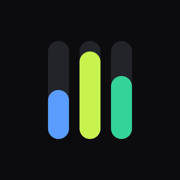
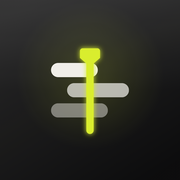
Icono de la app = marca del dashboard (pistas + playhead lima)
Revierte el cambio de marca anterior: el dashboard conserva su símbolo de
pistas de timeline con playhead y ahora icon-180/192/512.png (Dock, iPhone,
favicon y manifest) son ese mismo dibujo.

diff --git a/index.html b/index.html
@@ -10,6 +10,7 @@
 <meta name="apple-mobile-web-app-status-bar-style" content="black-translucent">
 <meta name="apple-mobile-web-app-title" content="Hub de Edición">
 <link rel="apple-touch-icon" href="/icon-180.png">
+<link rel="icon" type="image/png" sizes="192x192" href="/icon-192.png">
 <script>try{const t=localStorage.getItem('scTheme');if(t)document.documentElement.dataset.theme=t}catch(e){}
 // sidebar: el estado guardado manda; si no hay, desplegado solo en pantallas anchas (sin parpadeo al cargar)
 try{const s=localStorage.getItem('scSide');if(s==='0'||(s===null&&innerWidth<1280))document.documentElement.classList.add('side-closed')}catch(e){}
@@ -613,7 +614,7 @@ html.mini #focus .fdrop{padding:2px 8px}
   .top-in{padding:calc(14px + env(safe-area-inset-top)) 16px 12px;gap:10px;flex-wrap:nowrap}
   .logo{gap:9px;min-width:0}
   .logo .nm{font-size:15px}
-  .mark.sm{width:28px;height:28px;border-radius:6.5px}
+  .mark.sm{width:28px;height:28px}
   .top .rec .rl{display:none}
   .hero{margin-top:36px}
   .fsel,.fedit input{font-size:16px}   /* iOS hace zoom al enfocar campos de menos de 16 px */
@@ -712,14 +713,12 @@ html.side-closed .side-tg .ic{transform:none}
 .side .fade{transition:opacity .22s ease .16s}
 html.side-closed .side .fade{opacity:0;transition-delay:0s;pointer-events:none}
 .sbrand{display:flex;align-items:center;gap:12px;padding:22px 20px 18px;white-space:nowrap}
-/* la tesela ES el icono de la app (mismo dibujo que icon-*.png); radio ≈ 22,5 % como el Dock / iOS */
-.mark{position:relative;width:36px;height:36px;border-radius:9px;flex:none;overflow:hidden;background:#0c0c0e;
-  box-shadow:0 0 0 1px rgba(255,255,255,.07),0 6px 16px -8px rgba(0,0,0,.7)}
-.mark::after{content:"";position:absolute;inset:0;border-radius:inherit;pointer-events:none;  /* reflejo de vidrio sutil */
-  background:linear-gradient(160deg,rgba(255,255,255,.10),rgba(255,255,255,0) 46%);box-shadow:inset 0 1px 0 rgba(255,255,255,.10)}
-.mark .ic{display:block;width:100%;height:100%}
-.mark.sm{width:30px;height:30px;border-radius:7px}
-:root[data-theme="light"] .mark{box-shadow:0 0 0 1px rgba(0,0,0,.10),0 4px 12px -6px rgba(40,30,10,.35)}
+.mark{position:relative;width:36px;height:36px;border-radius:11px;flex:none;display:grid;place-items:center;color:var(--txt);
+  background:linear-gradient(155deg,color-mix(in srgb,var(--txt) 14%,transparent),color-mix(in srgb,var(--txt) 3%,transparent));
+  box-shadow:inset 0 0 0 1px var(--edge),inset 0 1px 0 var(--hl)}
+.mark .ic{width:22px;height:22px}
+.mark.sm{width:30px;height:30px;border-radius:9px}
+.mark.sm .ic{width:18px;height:18px}
 .bnm{font-family:var(--f-d);font-weight:800;font-size:13px;line-height:1.1;letter-spacing:.04em;font-variation-settings:'wdth' 118}
 .sst{margin-top:6px;font-size:9px;gap:7px}
 .sst i{width:6px;height:6px}
@@ -873,17 +872,13 @@ html.mini #focus .fplan,html.mini #focus .fmode button i{display:none}
 <!-- ============ iconografía: un objeto real por sección, mismo trazo (oct-2026) ============ -->
 <svg width="0" height="0" style="position:absolute" aria-hidden="true">
   <defs>
-    <!-- marca = el icono de la app (icon-180/512.png): tres medidores sobre su carril, en la tesela casi negra -->
-    <symbol id="i-mark" viewBox="0 0 512 512">
-      <rect width="512" height="512" fill="#0c0c0e" stroke="none"/>
-      <g stroke="none">
-        <rect x="136" y="116" width="60" height="280" rx="30" fill="#23232a"/>
-        <rect x="226" y="116" width="60" height="280" rx="30" fill="#23232a"/>
-        <rect x="316" y="116" width="60" height="280" rx="30" fill="#23232a"/>
-        <rect x="136" y="256" width="60" height="140" rx="30" fill="#5b9dff"/>
-        <rect x="226" y="146" width="60" height="250" rx="30" fill="#c8f24e"/>
-        <rect x="316" y="216" width="60" height="180" rx="30" fill="#34d399"/>
-      </g>
+    <!-- marca: tres pistas de la línea de tiempo (video / video / audio) y el playhead que las cruza -->
+    <symbol id="i-mark" viewBox="0 0 24 24">
+      <rect x="3.5" y="6.1" width="10.2" height="3.1" rx="1.55" fill="currentColor" stroke="none"/>
+      <rect x="7" y="10.5" width="13.5" height="3.1" rx="1.55" fill="currentColor" stroke="none" opacity=".72"/>
+      <rect x="3.5" y="14.9" width="12.4" height="3.1" rx="1.55" fill="currentColor" stroke="none" opacity=".46"/>
+      <path d="M12 6.4v14.4" stroke="var(--sun)" stroke-width="1.6"/>
+      <path d="M10.4 2.9h3.2a.6.6 0 0 1 .6.6v1.5L12 6.9 9.8 5V3.5a.6.6 0 0 1 .6-.6Z" fill="var(--sun)" stroke="none"/>
     </symbol>
     <!-- carrera = bandera a cuadros (la meta contra tu fantasma) -->
     <symbol id="i-carrera" viewBox="0 0 24 24">

diff --git a/server.py b/server.py
@@ -1248,6 +1248,7 @@ class Handler(http.server.BaseHTTPRequestHandler):
         statics = {
             "/manifest.json": "application/manifest+json",
             "/icon-180.png": "image/png",
+            "/icon-192.png": "image/png",
             "/icon-512.png": "image/png",
         }
         if path in statics:

diff --git a/docs/arquitectura.md b/docs/arquitectura.md
@@ -134,11 +134,11 @@ Un solo archivo: CSS (tokens Pantone, tema claro/oscuro) + HTML + un `<script>` 
    - **Sidebar `#side`** (≥1024 px; plegado = `html.side-closed`, guardado en `scSide`). Sin
      preferencia guardada, arranca desplegado desde 1280 px. El pre-script del `<head>` pone la
      clase antes de pintar, así no parpadea.
-   - **Marca = icono de la app.** El símbolo `#i-mark` (viewBox 512) replica `icon-180/512.png`
-     (apple-touch-icon y `manifest.json`): tesela `#0c0c0e`, tres carriles `#23232a` y barras azul
-     `#5b9dff` · lima `#c8f24e` · menta `#34d399`. La tesela `.mark` (36 px sidebar, `.sm` 30 px
-     barra móvil) ES el icono, con reflejo de vidrio en `::after`; igual en tema claro. Si cambia
-     el icono de la app, cambian los PNG y este símbolo a la vez.
+   - **Marca = icono de la app.** El símbolo `#i-mark` (tres pistas de timeline + playhead
+     `--sun`) es la fuente. `icon-180/192/512.png` (apple-touch-icon, favicon y `manifest.json`)
+     son ese mismo dibujo sobre tesela OLED `#050506` con vidrio y halo lima, a ancho completo
+     (iOS/macOS redondean las esquinas). Si cambia la marca, se regeneran los PNG (y se copian a
+     `cloud/` a mano: `sync-cloud.sh` no los porta). `server.py` los sirve por lista blanca.
    - **`renderSide(M)`** pinta el saludo, el dato vivo de cada sección y "En la mesa" (anillo de
      avance + segmentos por etapa). Tocar una boda llama a `renderMesa._select`.
    - **Espejo del sprint:** un `MutationObserver` sobre `#tcode`, `#focus`, `#focusBtn` y la etapa
